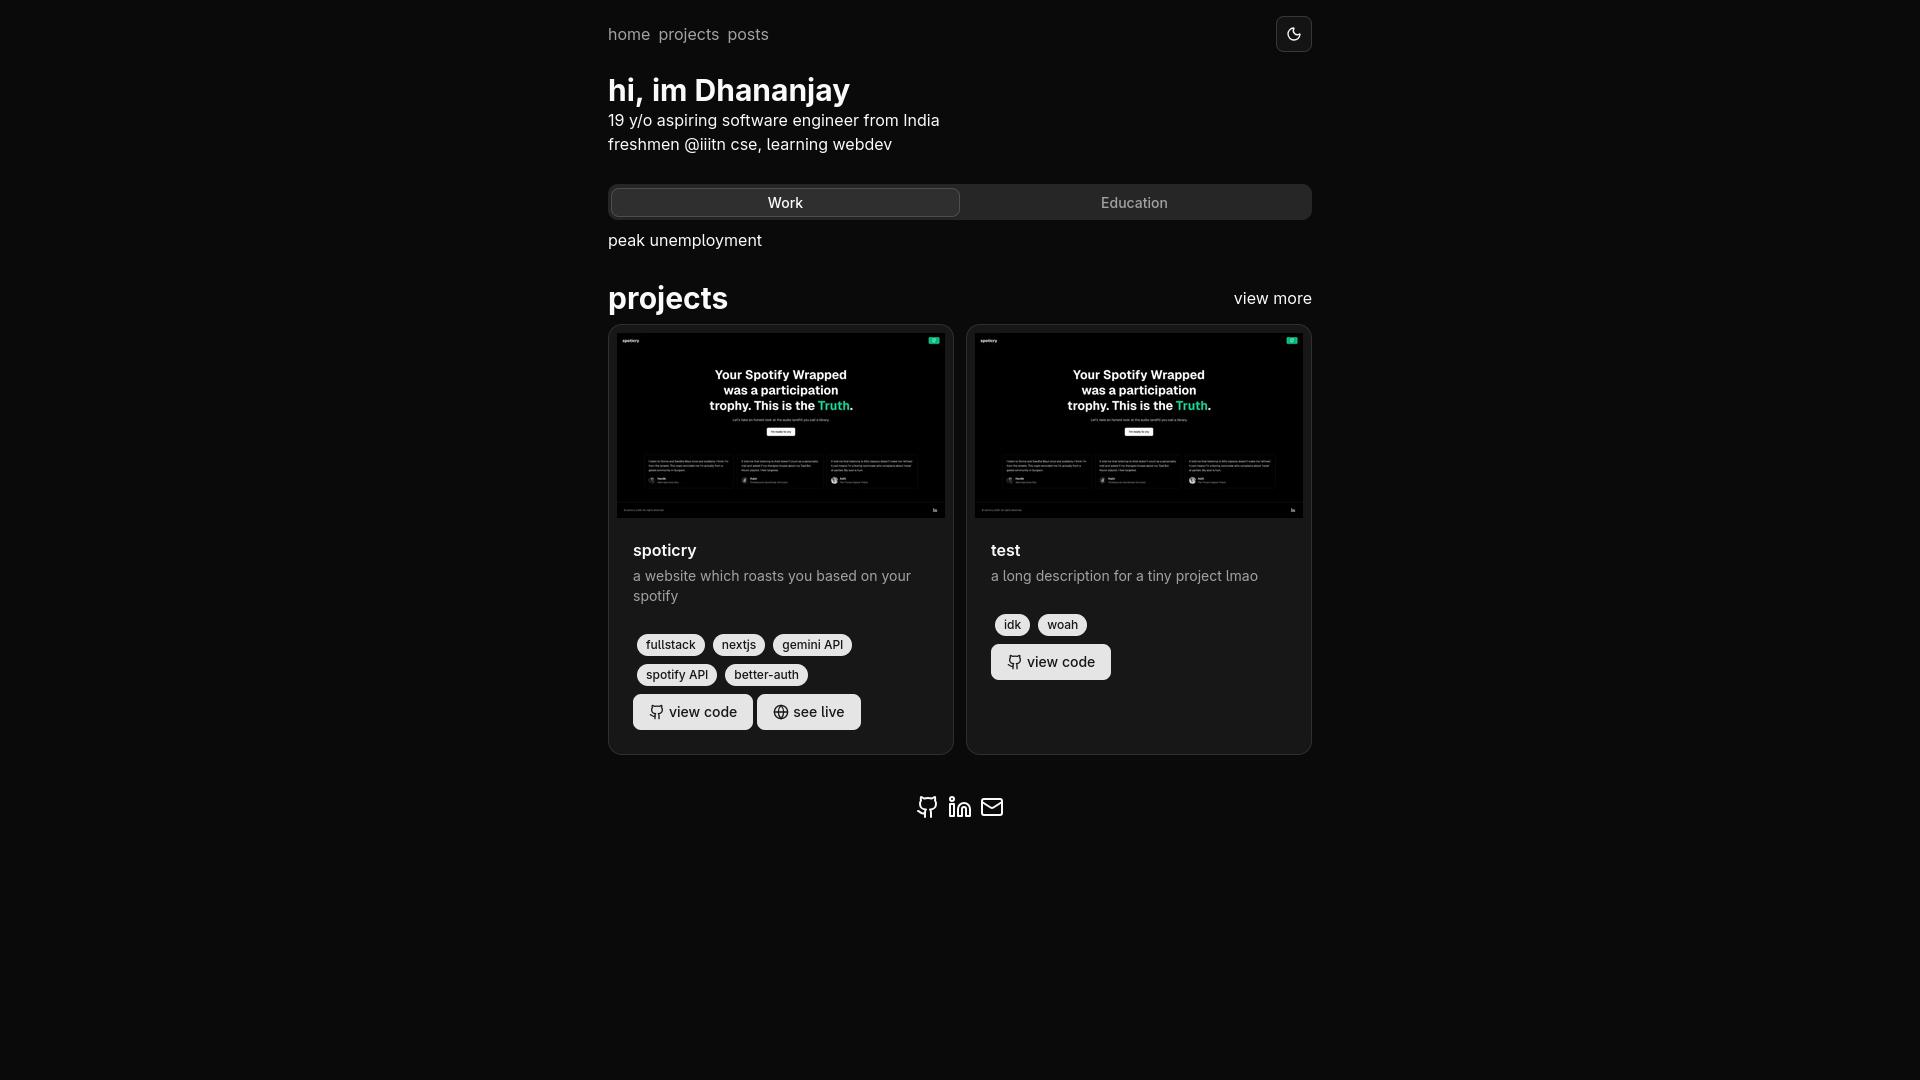
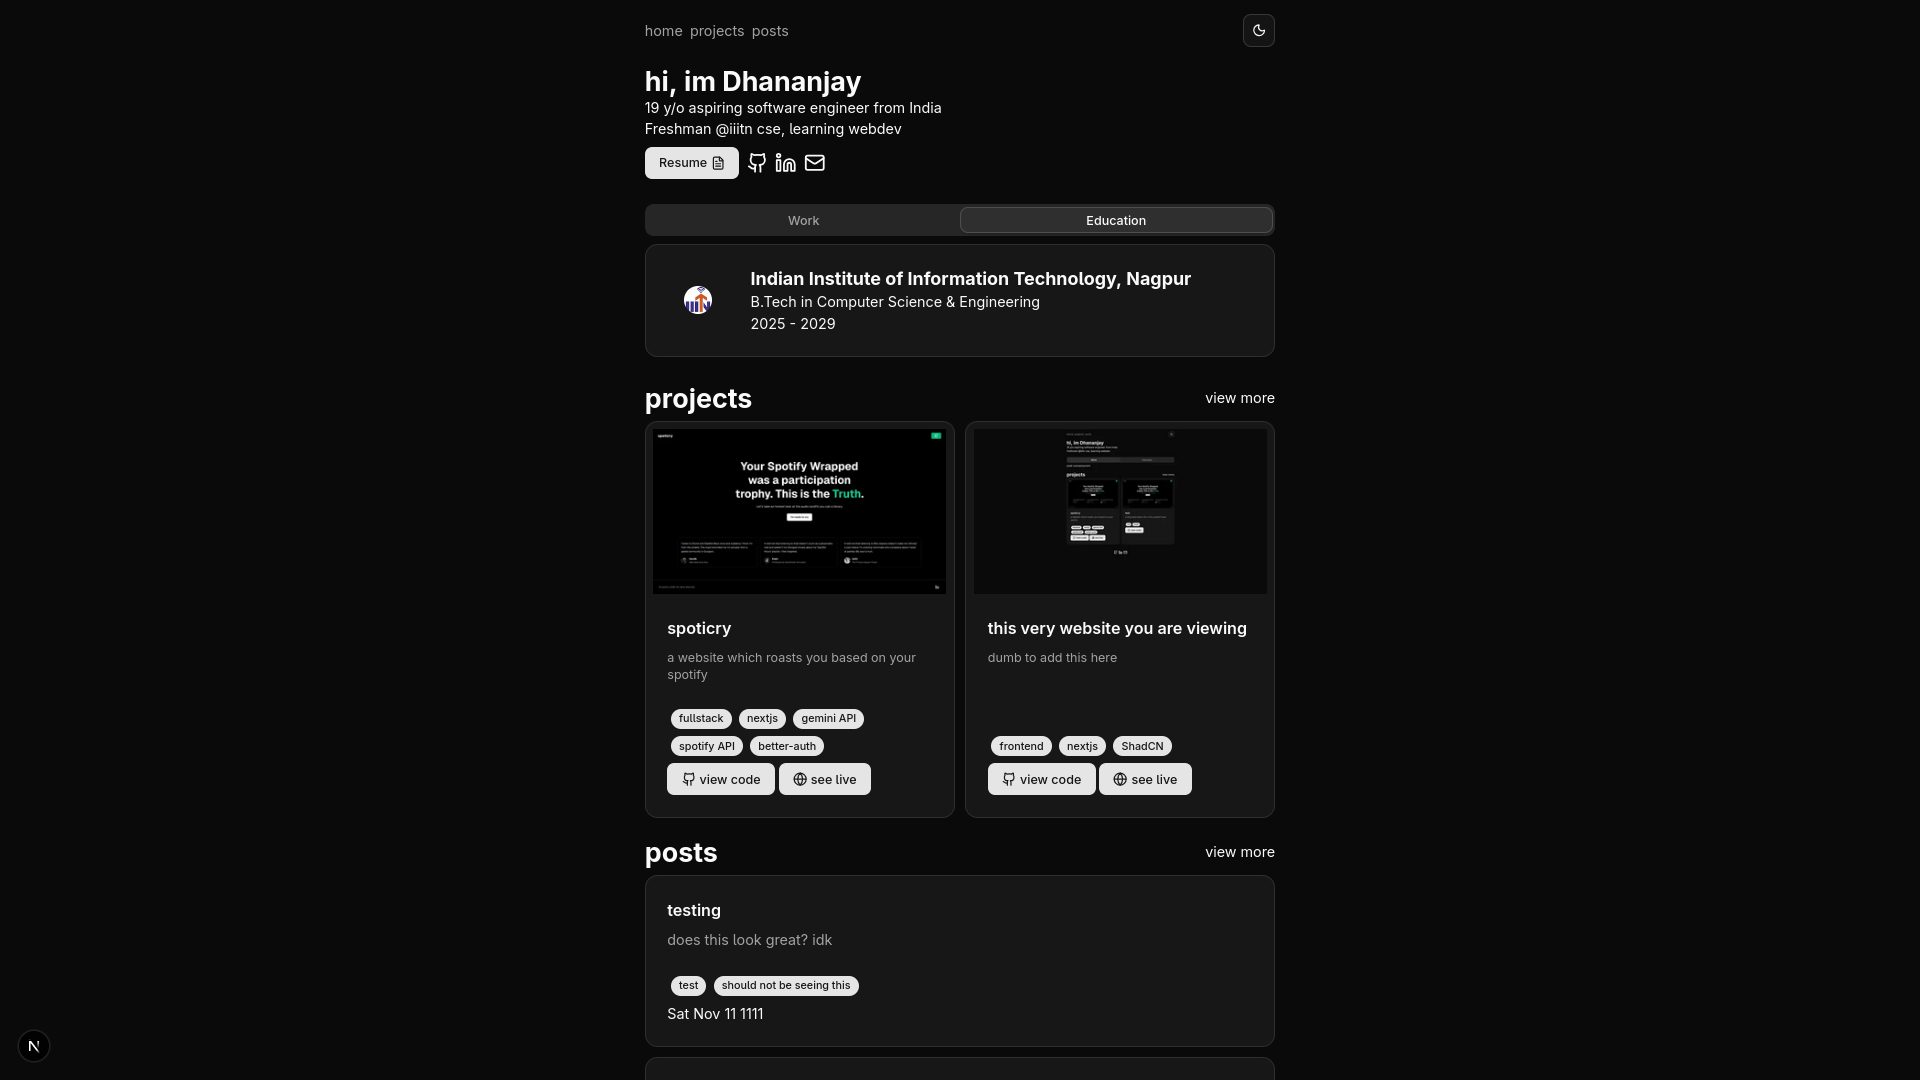
add post ui

diff --git a/app/page.tsx b/app/page.tsx
@@ -1,31 +1,24 @@
-import { Tabs, TabsContent, TabsList, TabsTrigger } from "@/components/ui/tabs"
 import Link from "next/link";
-import Project from "@/components/Project"
+import { Tabs, TabsContent, TabsList, TabsTrigger } from "@/components/ui/tabs"
+import {Card, CardContent} from "@/components/ui/card";
 import { Button } from "@/components/ui/button";
 import {FileText} from "lucide-react";
-import SocialIcons from "@/components/SocialIcons";
 import TabItem from "@/components/TabItem";
+import Project from "@/components/Project"
+import Post from "@/components/Post";
+import SocialIcons from "@/components/SocialIcons";
+import personalInfo from "@/data/personalInfo";
+import educationItems from "@/data/education";
 import {featuredProjects} from "@/data/projects";
-import {educationItems} from "@/data/education";
-
-function getAge() {
-    const today = new Date();
-    const birthDate = new Date("2006-12-18");
-    let age = today.getFullYear() - birthDate.getFullYear();
-    const monthDifference = today.getMonth() - birthDate.getMonth();
-    if (monthDifference < 0 || (monthDifference === 0 && today.getDate() < birthDate.getDate())) {
-        age--;
-    }
-    return age;
-}
+import {featuredPosts} from "@/data/posts";
 
 export default function Home() {
   return (
       <main>
           <section className="my-5" >
-              <h1 className="text-3xl font-bold" >hi, im Dhananjay</h1>
-              <p>{getAge()} y/o aspiring software engineer from India</p>
-              <p>freshmen @iiitn cse, learning webdev</p>
+              <h1 className="text-3xl font-bold" >hi, im {personalInfo.name}</h1>
+              <p>{personalInfo.age} y/o {personalInfo.role} from {personalInfo.location}</p>
+              <p>{personalInfo.description}</p>
               <div className="flex items-center gap-2 my-2" >
                   <Button ><Link target="_blank" href="/resume.pdf" className="flex items-center gap-1">Resume<FileText /></Link></Button>
                   <SocialIcons/>
@@ -38,9 +31,19 @@ export default function Home() {
                   <TabsTrigger value="work">Work</TabsTrigger>
                   <TabsTrigger value="education">Education</TabsTrigger>
               </TabsList>
-              <TabsContent value="work">peak unemployment</TabsContent>
+              <TabsContent value="work">
+                  <Card>
+                      <CardContent>
+                          <p>peak unemployment</p>
+                      </CardContent>
+                  </Card>
+              </TabsContent>
               <TabsContent value="education">
-                  {educationItems.map(item => <TabItem key={item.title} {...item} />)}</TabsContent>
+                  <Card>
+                    {educationItems.map(item => <TabItem key={item.title} {...item} />)}
+                  </Card>
+              </TabsContent>
+
           </Tabs>
 
           <section className="my-5">
@@ -56,6 +59,20 @@ export default function Home() {
                   </div>
               </div>
           </section>
+
+          {/*<section>*/}
+          {/*    <div className="flex flex-col">*/}
+          {/*        <div className="flex justify-between items-center">*/}
+          {/*            <h1 className="text-3xl font-bold" >posts</h1>*/}
+          {/*            <Link href="/posts">view more</Link>*/}
+          {/*        </div>*/}
+          {/*        <div className="mt-2 flex flex-col justify-center gap-3">*/}
+          {/*            {featuredPosts.map(post => {*/}
+          {/*                return <Post key={post.title} {...post}/>*/}
+          {/*            })}*/}
+          {/*        </div>*/}
+          {/*    </div>*/}
+          {/*</section>*/}
       </main>
   );
 }

diff --git a/components/Post.tsx b/components/Post.tsx
@@ -1,0 +1,45 @@
+import { Button } from "@/components/ui/button"
+import {
+    Card,
+    CardContent,
+    CardDescription,
+    CardFooter,
+    CardHeader,
+    CardTitle,
+} from "@/components/ui/card"
+import Link from "next/link";
+import {Badge} from "@/components/ui/badge";
+
+export type postProp = {
+    title: string,
+    description: string,
+    tags: string[],
+    date: Date,
+    contentLink: string,
+}
+
+function Post({date, title, description, tags, contentLink} : postProp) {
+    return (
+        <Link target="_blank" href={contentLink}>
+            <Card>
+            <CardHeader className="mb-[-25]" >
+                <CardTitle className="m-0 text-lg">{title}</CardTitle>
+            </CardHeader>
+            <CardContent>
+                <p className="text-muted-foreground">
+                    {description}
+                </p>
+            </CardContent>
+            <CardFooter className="flex flex-col items-start gap-1">
+                <div>
+                    {tags.map(tag => {
+                        return <Badge className="m-1" key={tag} >{tag}</Badge>
+                    })}
+                </div>
+                <p> {date.toDateString()} </p>
+            </CardFooter>
+        </Card>
+        </Link>
+    )
+}
+export default Post;

diff --git a/components/Project.tsx b/components/Project.tsx
@@ -23,7 +23,7 @@ export type projectProp = {
 
 const Project = ({image, title, description, tags, liveLink, githubLink} : projectProp) => {
     return (
-        <Card className="relative mx-auto w-full pt-0">
+        <Card className=" relative mx-auto w-full pt-0">
             <Image
                 src={image}
                 width={500}
@@ -32,15 +32,12 @@ const Project = ({image, title, description, tags, liveLink, githubLink} : proje
                 className="pt-2 px-2"
             />
             <CardHeader>
-                {/*<CardAction>*/}
-                {/*    <Badge variant="secondary">Featured</Badge>*/}
-                {/*</CardAction>*/}
-                <CardTitle>{title}</CardTitle>
+                <CardTitle className="text-lg" >{title}</CardTitle>
                 <CardDescription>
                     {description}
                 </CardDescription>
             </CardHeader>
-            <CardFooter className="flex flex-col items-start gap-1 ">
+            <CardFooter className="mt-auto flex flex-col items-start gap-1 ">
                 <div>
                     {tags.map(tag => {
                         return <Badge className="m-1" key={tag} > {tag} </Badge>

diff --git a/app/posts/page.tsx b/app/posts/page.tsx
@@ -1,9 +1,18 @@
-import { Mail, Github, Linkedin } from 'lucide-react';
+import Link from "next/link";
+import posts from "@/data/posts";
+import Post from "@/components/Post";
+
 const Page = () => {
     return (
-        <>
-            posts
-        </>
+        <main className="my-5">
+            <h1>empty.</h1>
+            {/*<h1 className="text-3xl font-bold mb-3" >posts</h1>*/}
+            {/*<div className="mt-2 flex flex-col justify-center gap-3">*/}
+            {/*    {posts.map(post => {*/}
+            {/*        return <Post key={post.title} {...post}/>*/}
+            {/*    })}*/}
+            {/*</div>*/}
+        </main>
     );
 };
 

diff --git a/data/education.tsx b/data/education.tsx
@@ -1,12 +1,14 @@
 import {tabItemProp} from "@/components/TabItem";
 
-export const educationItems : tabItemProp[] = [
+const educationItems : tabItemProp[] = [
     {
         link: 'https://iiitn.ac.in/',
         logo: "/IIITNlogo.png",
         title: "Indian Institute of Information Technology, Nagpur",
         subtitle: "B.Tech in Computer Science & Engineering",
-        description: [],
+        description: ["Achieved 4th place in Rebranding Wars at ESummit 2026 for redesigning IMBd.com", "Earned a 9.56 SGPA during the first semister"],
         period: "2025 - 2029"
-    }
+    },
 ]
+
+export default educationItems;

diff --git a/components/TabItem.tsx b/components/TabItem.tsx
@@ -28,7 +28,7 @@ const TabItem = ({logo, link, period, subtitle, title, description, tags = []} :
                 <h1 className="text-xl font-bold"><Link target="_blank" href={link}>{title}</Link></h1>
                 <p>{subtitle}</p>
                 <p>{period}</p>
-                <ul>
+                <ul className="list-disc pl-5" >
                     {description.map((item, index) => {
                         return <li key={index}> {item} </li>
                     })}

diff --git a/data/personalInfo.tsx b/data/personalInfo.tsx
@@ -1,0 +1,19 @@
+import getAge from "@/lib/getAge";
+
+type personalInfo = {
+    name: string,
+    age: number,
+    role: string,
+    location: string,
+    description: string,
+}
+
+const personalInfo : personalInfo = {
+    name: "Dhananjay",
+    age: getAge("2006-12-18"), //yyyy-mm-dd
+    role: "aspiring software engineer",
+    location: "India",
+    description: "Freshman @iiitn cse, learning webdev"
+}
+
+export default personalInfo;

diff --git a/data/projects.tsx b/data/projects.tsx
@@ -1,6 +1,6 @@
 import type {projectProp} from "@/components/Project";
 
-export const projects: projectProp[] = [
+const projects: projectProp[] = [
     {
         image: '/spoticry.png',
         title: "spoticry",
@@ -18,5 +18,5 @@ export const projects: projectProp[] = [
         liveLink: "https://dhananjayc.vercel.app",
     },
 ]
-
+export default projects;
 export const featuredProjects: projectProp[] = [projects[0], projects[1]]

diff --git a/lib/getAge.ts b/lib/getAge.ts
@@ -1,0 +1,12 @@
+function getAge(birthdate: string) {
+    const today = new Date();
+    const birthDate = new Date(birthdate);
+    let age = today.getFullYear() - birthDate.getFullYear();
+    const monthDifference = today.getMonth() - birthDate.getMonth();
+    if (monthDifference < 0 || (monthDifference === 0 && today.getDate() < birthDate.getDate())) {
+        age--;
+    }
+    return age;
+}
+
+export default getAge;

diff --git a/app/not-found.tsx b/app/not-found.tsx
@@ -1,0 +1,8 @@
+export default function NotFound() {
+    return (
+        <main className="flex gap-2 h-100 items-center justify-center">
+            <h1 className="text-5xl">404</h1>
+            <h2 className="text-3xl">Page not found</h2>
+        </main>
+    );
+}

diff --git a/app/layout.tsx b/app/layout.tsx
@@ -32,7 +32,7 @@ export default function RootLayout({
       >
       <ThemeProvider
           attribute="class"
-          defaultTheme="system"
+          defaultTheme="dark"
           enableSystem
           disableTransitionOnChange
       >

diff --git a/app/projects/page.tsx b/app/projects/page.tsx
@@ -1,4 +1,4 @@
-import {projects} from "@/data/projects";
+import projects from "@/data/projects";
 import Project from "@/components/Project";
 
 const Page = () => {
